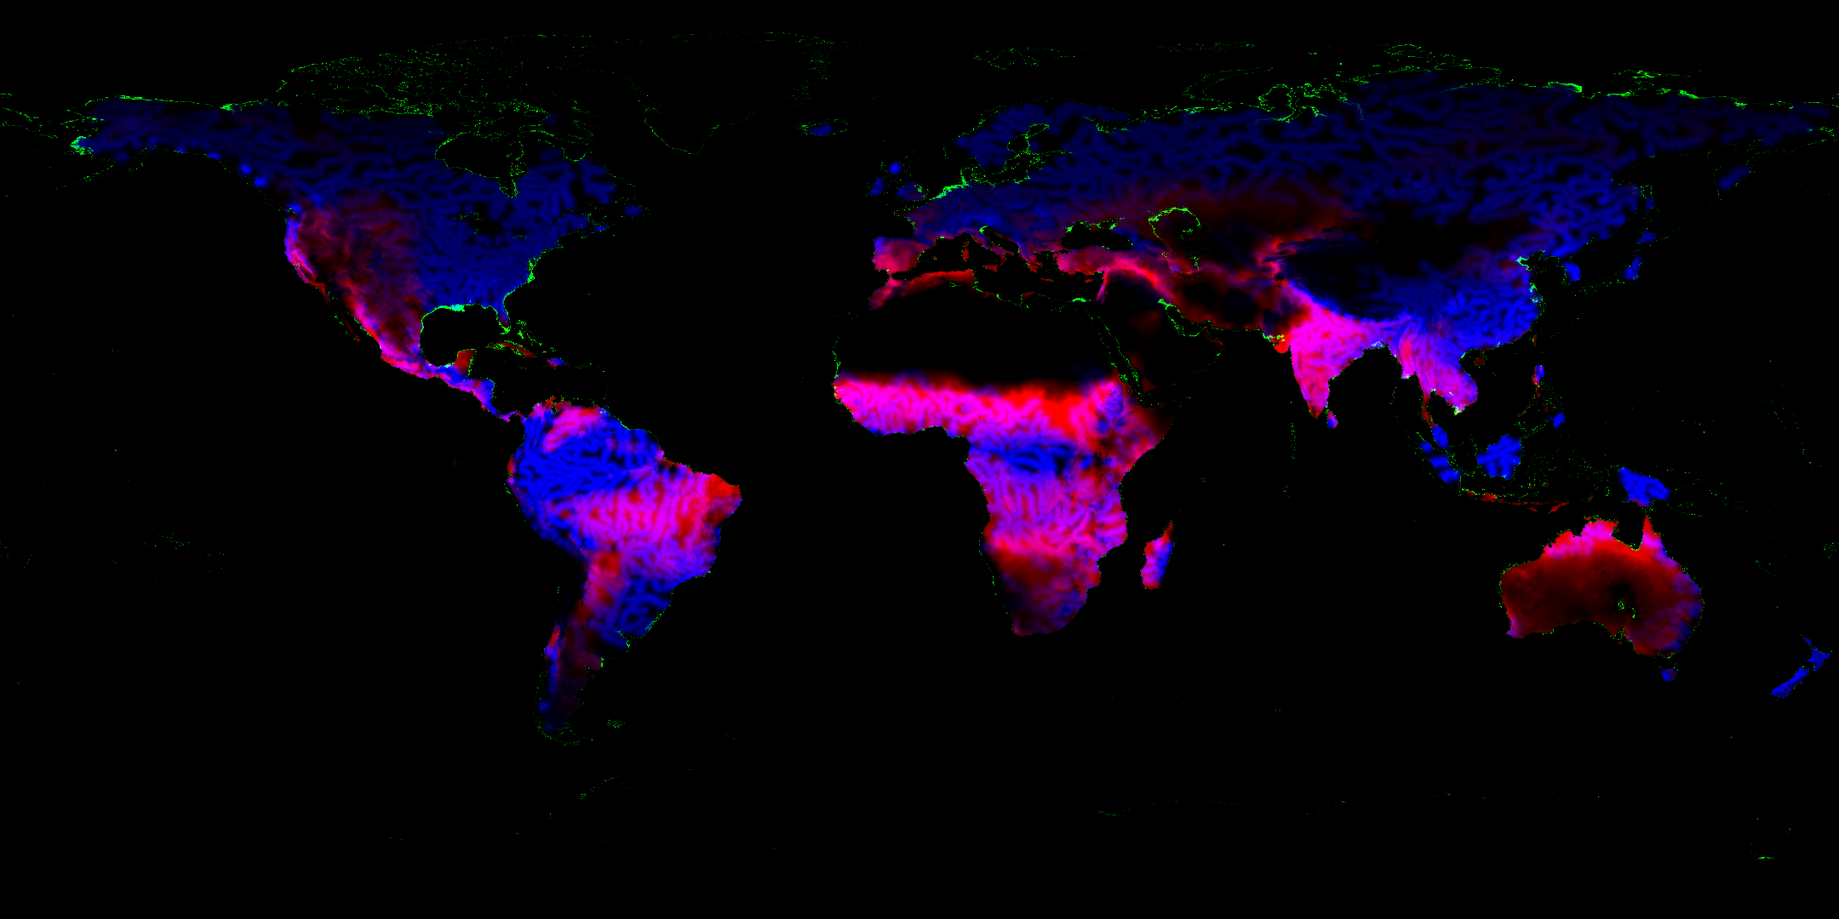
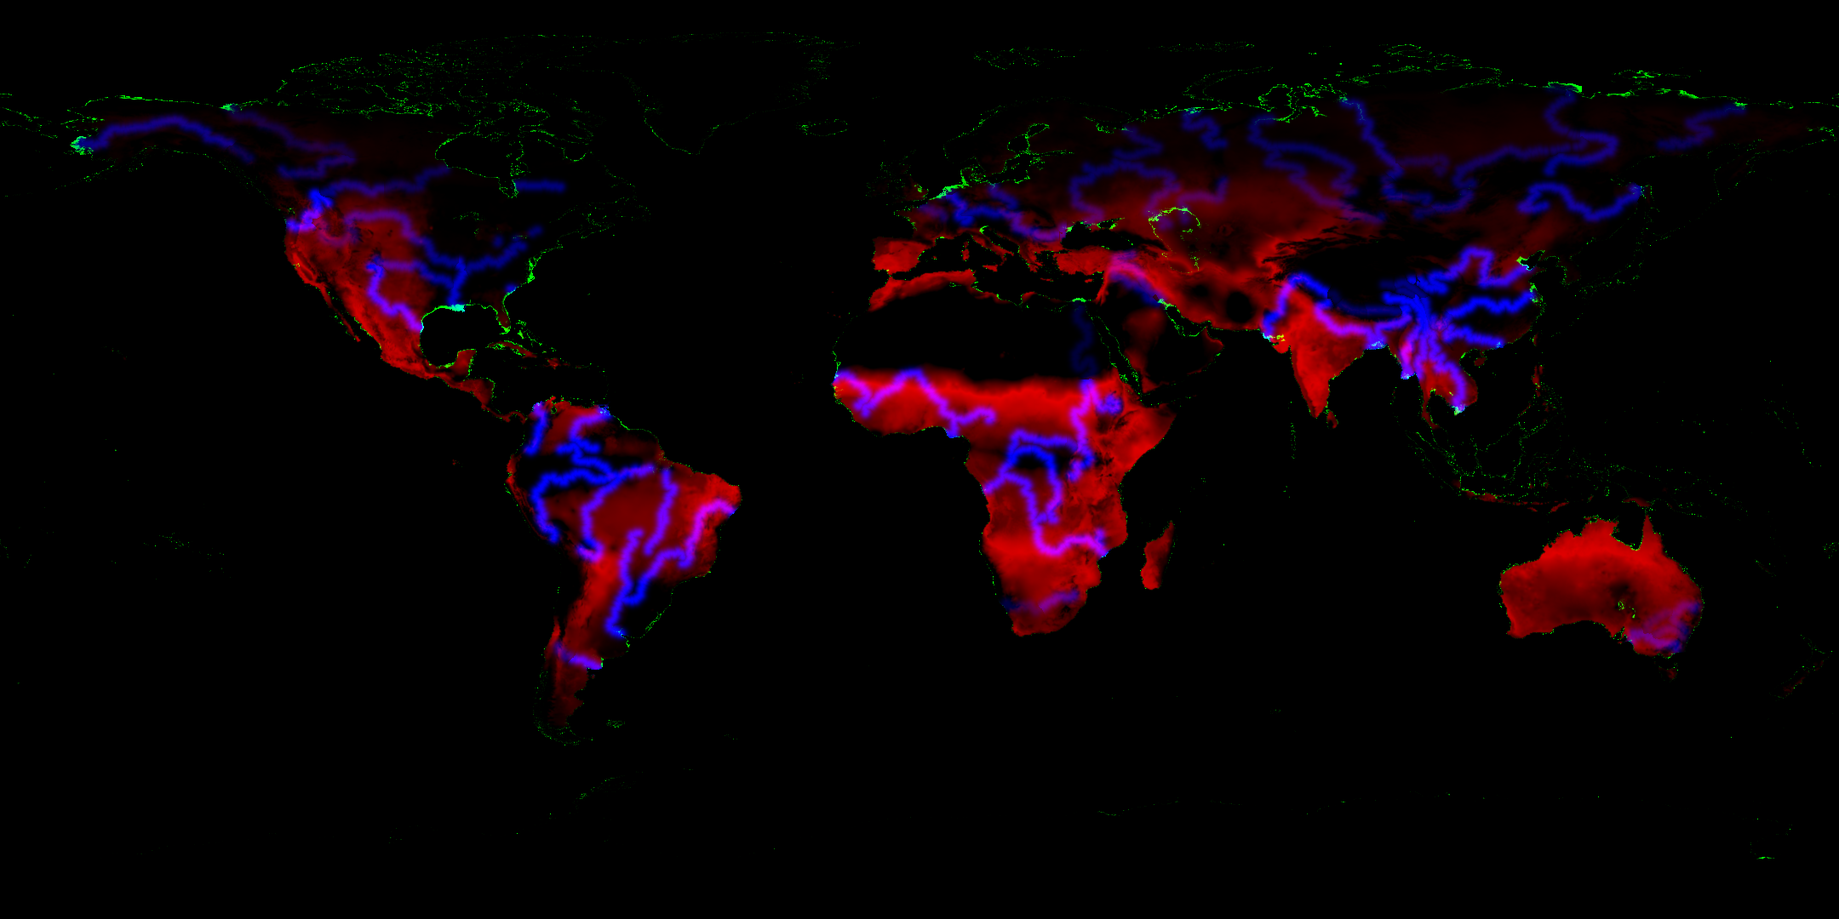
Verifier chaque calque contre la geographie reelle, remplacer le flux
Corrections issues du spot-check (30 points de controle par calque) :
- Feux : les moyennes mensuelles confondaient Londres et Canberra ; le
  danger integre desormais l'aridite annuelle de fond et moyenne les deux
  pires mois (Seville .80, Canberra .21, Londres .24, Sahara/Congo 0).
- Inondations : l'intensite etait la pluie LOCALE — le Nil sortait a zero
  au Caire. La crue porte desormais le max de pluie du bassin, calcule par
  fleuve NOMME tous troncons confondus (Nil .20 sur tout son cours).
- Submersion validee telle quelle : Dhaka ville .008 est correct (~8 m),
  le delta au sud est expose (Khulna .27, Calcutta .32).

« Resilience & flux » (six arcs dessines a la main, sans donnee) remplace
par « Instabilite du climat » : ecart |2050-2026| pondere comme le critere
stabilite du dossier, seuils cales sur les percentiles reels de la grille,
violet qui respire et s'intensifie avec la timeline. Note « calque
indicatif » sous les argiles dans le menu. Face nuit relevee (plancher
1.05). Conseil du dossier aligne sur l'echelle des rangees affichees.

diff --git a/index.html b/index.html
@@ -212,7 +212,8 @@
       <button class="calque" data-cle="secheresse" data-couleur="ambre"><span class="pastille"></span><span class="nom" data-t-calque></span><span class="code">R-04</span></button>
       <button class="calque" data-cle="mer"><span class="pastille"></span><span class="nom" data-t-calque></span><span class="code">R-05</span></button>
       <button class="calque" data-cle="fleuves"><span class="pastille"></span><span class="nom" data-t-calque></span><span class="code">R-06</span></button>
-      <button class="calque" data-cle="flux"><span class="pastille"></span><span class="nom" data-t-calque></span><span class="code">R-07</span></button>
+      <button class="calque" data-cle="stabilite" data-couleur="violet"><span class="pastille"></span><span class="nom" data-t-calque></span><span class="code">R-07</span></button>
+      <div class="note-calques" data-t="argilesIndicatif"></div>
     </nav>
   </div>
   <div class="menu-groupe">
@@ -338,15 +339,6 @@ function revelerChars(el, texte){
   gsap.fromTo(chars, { yPercent: 115 }, { yPercent: 0, duration: 1.2, stagger: 0.015, ease: EASE });
 }
 
-// Flux de résilience : zones agricoles → métropoles [de, vers]
-const FLUX = [
-  [[48.1,  1.7], [48.85,   2.35]],  // Beauce → Paris
-  [[41.9,-93.1], [41.88, -87.63]],  // Midwest → Chicago
-  [[-12.0,-47.0],[-23.55,-46.63]],  // Cerrado → São Paulo
-  [[49.0, 32.0], [52.52,  13.40]],  // Steppe ukrainienne → Berlin
-  [[-34.0,-61.0],[-34.60,-58.38]],  // Pampas → Buenos Aires
-  [[31.0, 74.0], [28.61,  77.21]],  // Pendjab → Delhi
-];
 
 
 
@@ -369,7 +361,7 @@ const TEXTES = {
     son: e => e ? 'Son · on' : 'Son · off',
     calque: { chaleur: 'Chaleur extrême', feux: 'Incendies de forêt',
       argile: 'Retrait-gonflement argiles', secheresse: 'Sécheresse',
-      mer: 'Submersion marine', fleuves: 'Inondations fluviales', flux: 'Résilience & flux' },
+      mer: 'Submersion marine', fleuves: 'Inondations fluviales', stabilite: 'Instabilité du climat' },
     critere: { thermique: 'Confort thermique', eau: 'Ressource en eau', feux: 'Risque incendie',
       mer: 'Submersion marine', fleuves: 'Inondation fluviale', stabilite: 'Stabilité du climat' },
     legendeIndice: '／100 · indice d’habitabilité',
@@ -379,6 +371,7 @@ const TEXTES = {
       moyen: `En ${an}, rester demande de s’adapter sur ${faible.toLowerCase()}.`,
       dur: `En ${an}, ${faible.toLowerCase()} pèse assez pour poser la question du départ.`,
     })[n] + (delta <= -8 ? ` L’indice perd ${-delta} points d’ici 2050.` : delta >= 8 ? ` L’indice gagne ${delta} points d’ici 2050.` : ''),
+    conseilSain: an => `En ${an}, aucun des six facteurs ne pèse vraiment ici.`,
     aujourdhui: 'En ce moment',
     ras: 'Aucun événement naturel majeur en cours dans un rayon de 800 km.',
     rasChargement: 'Interrogation du flux NASA EONET…',
@@ -412,7 +405,7 @@ const TEXTES = {
     son: e => e ? 'Sound · on' : 'Sound · off',
     calque: { chaleur: 'Extreme heat', feux: 'Wildfire',
       argile: 'Clay shrink-swell', secheresse: 'Drought',
-      mer: 'Coastal flooding', fleuves: 'River flooding', flux: 'Resilience & flows' },
+      mer: 'Coastal flooding', fleuves: 'River flooding', stabilite: 'Climate shift' },
     critere: { thermique: 'Thermal comfort', eau: 'Water resource', feux: 'Wildfire risk',
       mer: 'Coastal flooding', fleuves: 'River flooding', stabilite: 'Climate stability' },
     legendeIndice: '／100 · habitability index',
@@ -422,6 +415,7 @@ const TEXTES = {
       moyen: `In ${an}, staying means adapting on ${faible.toLowerCase()}.`,
       dur: `In ${an}, ${faible.toLowerCase()} weighs enough to raise the question of leaving.`,
     })[n] + (delta <= -8 ? ` The index loses ${-delta} points by 2050.` : delta >= 8 ? ` The index gains ${delta} points by 2050.` : ''),
+    conseilSain: an => `In ${an}, none of the six factors carries real weight here.`,
     aujourdhui: 'Right now',
     ras: 'No major natural event under way within 800 km.',
     rasChargement: 'Querying the NASA EONET feed…',
@@ -753,7 +747,7 @@ const uniformsGlobe = {
   uProgression:{ value: 0 },                          // timeline 2026→2050 → 0..1
   uSoleil:     { value: new THREE.Vector3(1, .35, .6).normalize() },
   uChaleur:    { value: 0 }, uArgile: { value: 0 },
-  uSecheresse: { value: 0 }, uMer:    { value: 0 },
+  uSecheresse: { value: 0 }, uMer:    { value: 0 }, uStabilite: { value: 0 },
   uA2026: { value: texA2026 }, uA2050: { value: texA2050 },
   uB2026: { value: texB2026 }, uB2050: { value: texB2050 },
   uC:     { value: texC },
@@ -772,7 +766,7 @@ const matGlobe = new THREE.ShaderMaterial({
     }`,
   fragmentShader: /* glsl */`
     uniform sampler2D uMap; uniform sampler2D uMasque;
-    uniform float uTemps, uProgression, uChaleur, uArgile, uSecheresse, uMer;
+    uniform float uTemps, uProgression, uChaleur, uArgile, uSecheresse, uMer, uStabilite;
     uniform vec3 uSoleil;
     uniform sampler2D uA2026, uA2050, uB2026, uB2050, uC;
     varying vec3 vN; varying vec3 vP; varying vec2 vUv; varying vec3 vPm;
@@ -805,7 +799,7 @@ const matGlobe = new THREE.ShaderMaterial({
       // doivent rester lisibles y compris sur la face nuit
       float gris = dot(tex, vec3(0.299, 0.587, 0.114));
       vec3 ocean   = vec3(0.026, 0.058, 0.132);
-      vec3 continent = mix(vec3(0.095, 0.130, 0.168), vec3(0.245, 0.272, 0.278), gris);
+      vec3 continent = mix(vec3(0.130, 0.168, 0.205), vec3(0.300, 0.325, 0.330), gris);
       vec3 base = mix(ocean, continent, terre);
 
       // éclairage très doux : le jour/nuit module, il ne masque jamais (pas de
@@ -813,15 +807,18 @@ const matGlobe = new THREE.ShaderMaterial({
       float lambert = max(dot(vN, uSoleil), 0.0);
       vec3 vue = normalize(cameraPosition - vPm);
       float fresnel = pow(1.0 - max(dot(vN, vue), 0.0), 3.0);
-      vec3 col = base * (0.94 + 0.30 * lambert) + vec3(0.09, 0.25, 0.66) * fresnel * 0.55;
+      // plancher haut : la face nuit reste lisible sous n'importe quelle rotation
+      vec3 col = base * (1.05 + 0.24 * lambert) + vec3(0.09, 0.25, 0.66) * fresnel * 0.50;
 
       float P = uProgression;
 
       /* Grilles de risques réelles (WorldClim/CMIP6 SSP3-7.0, ETOPO 2022,
          Natural Earth). r = chaleur, g = sécheresse, b = feux, a = submersion ;
          st = fleuves 2026 / fleuves 2050 / argiles / masque terre ETOPO. */
-      vec3 ga = mix(texture2D(uA2026, vUv).rgb, texture2D(uA2050, vUv).rgb, P);  // chaud / gel / sec
-      vec3 gb = mix(texture2D(uB2026, vUv).rgb, texture2D(uB2050, vUv).rgb, P);  // feu / mer / fleuves
+      vec3 a26 = texture2D(uA2026, vUv).rgb, a50 = texture2D(uA2050, vUv).rgb;
+      vec3 b26 = texture2D(uB2026, vUv).rgb, b50 = texture2D(uB2050, vUv).rgb;
+      vec3 ga = mix(a26, a50, P);                    // chaud / gel / sec
+      vec3 gb = mix(b26, b50, P);                    // feu / mer / fleuves
       vec3 gc = texture2D(uC, vUv).rgb;                                          // argiles / terre
       float submersion = gb.g;
       terre = max(terre, step(0.5, gc.g));
@@ -866,6 +863,20 @@ const matGlobe = new THREE.ShaderMaterial({
         vec3 neon = vec3(0.16, 0.48, 1.0);
         col = mix(col, neon * houle, eau * uMer * 0.70);
         col += neon * bord * terre * uMer * 0.85;             // liseré du trait de côte submersible
+      }
+
+      // R-07 INSTABILITÉ : où le climat de 2050 diffère le plus de celui de
+      // 2026, toutes grilles confondues — mêmes pondérations que le critère
+      // « stabilité » du dossier. Lueur violette qui respire lentement.
+      if (uStabilite > 0.001){
+        float inst = (abs(a50.r - a26.r) * 1.0 + abs(a50.b - a26.b) * 0.8
+                    + abs(b50.r - b26.r) * 0.6 + abs(b50.g - b26.g) * 1.2) / 3.6;
+        // dynamique réelle de l'écart : médiane ~0.001, p90 ~0.024, p99 ~0.056.
+        // Le seuil suit ces percentiles, pas une échelle 0-1 imaginaire.
+        float m = smoothstep(0.006, 0.055, inst) * terre;
+        float souffle = 0.72 + 0.28 * sin(uTemps * 1.1 + inst * 8.0);
+        vec3 violet = vec3(0.565, 0.365, 1.0);
+        col = mix(col, violet * souffle, m * uStabilite * (0.45 + 0.40 * P));
       }
 
       gl_FragColor = vec4(col, 1.0);
@@ -1038,68 +1049,6 @@ fetch('./data/rivers.json').then(r => r.json()).then(fleuves => {
 groupeFleuves.visible = false;
 scene.add(groupeFleuves);
 
-/* =====================================================================
-   7. R-07 FLUX — arcs de Bézier 3D + particules voyageant GPU-side.
-      Dépendance logistique des métropoles aux zones agricoles.
-   ===================================================================== */
-const courbes = FLUX.map(([a, b]) => {
-  const va = latLonVersVec3(a[0], a[1]), vb = latLonVersVec3(b[0], b[1]);
-  const milieu = va.clone().add(vb).multiplyScalar(0.5).normalize()
-    .multiplyScalar(1 + va.distanceTo(vb) * 0.35);          // hauteur d'arc
-  return new THREE.QuadraticBezierCurve3(va, milieu, vb);
-});
-const groupeFlux = new THREE.Group();
-const fluxUniforms = { uTemps: { value: 0 }, uIntensite: { value: 0 }, uPixelRatio: { value: moteur.getPixelRatio() } };
-{
-  // arcs : tubes très fins, teinte cyan discrète
-  for (const c of courbes){
-    const geo = new THREE.TubeGeometry(c, 48, 0.0016, 4, false);
-    groupeFlux.add(new THREE.Mesh(geo, new THREE.MeshBasicMaterial({
-      color: 0x39e6d4, transparent: true, opacity: 0.14, blending: THREE.AdditiveBlending, depthWrite: false })));
-  }
-  // particules : 48 par arc, position calculée dans le vertex shader (3 points de contrôle)
-  const PAR_ARC = 48, total = courbes.length * PAR_ARC;
-  const p0 = new Float32Array(total * 3), p1 = new Float32Array(total * 3), p2 = new Float32Array(total * 3);
-  const decalage = new Float32Array(total);
-  let k = 0;
-  for (const c of courbes){
-    for (let i = 0; i < PAR_ARC; i++, k++){
-      p0.set([c.v0.x, c.v0.y, c.v0.z], k * 3);
-      p1.set([c.v1.x, c.v1.y, c.v1.z], k * 3);
-      p2.set([c.v2.x, c.v2.y, c.v2.z], k * 3);
-      decalage[k] = i / PAR_ARC;
-    }
-  }
-  const geo = new THREE.BufferGeometry();
-  geo.setAttribute('position', new THREE.BufferAttribute(p0, 3)); // requis, remplacé au rendu
-  geo.setAttribute('aP1', new THREE.BufferAttribute(p1, 3));
-  geo.setAttribute('aP2', new THREE.BufferAttribute(p2, 3));
-  geo.setAttribute('aDecalage', new THREE.BufferAttribute(decalage, 1));
-  groupeFlux.add(new THREE.Points(geo, new THREE.ShaderMaterial({
-    uniforms: fluxUniforms, transparent: true, depthWrite: false, blending: THREE.AdditiveBlending,
-    vertexShader: /* glsl */`
-      attribute vec3 aP1; attribute vec3 aP2; attribute float aDecalage;
-      uniform float uTemps, uIntensite, uPixelRatio;
-      varying float vVie;
-      void main(){
-        float t = fract(uTemps * 0.14 + aDecalage);
-        vec3 ab = mix(position, aP1, t), bc = mix(aP1, aP2, t);
-        vec3 pos = mix(ab, bc, t);                            // Bézier quadratique évalué GPU
-        vVie = sin(t * 3.14159);                              // naît et meurt aux extrémités
-        vec4 mv = modelViewMatrix * vec4(pos, 1.0);
-        gl_PointSize = (1.6 + 2.4 * vVie) * uIntensite * uPixelRatio * (2.6 / -mv.z);
-        gl_Position = projectionMatrix * mv;
-      }`,
-    fragmentShader: /* glsl */`
-      uniform float uIntensite; varying float vVie;
-      void main(){
-        float d = length(gl_PointCoord - 0.5);
-        gl_FragColor = vec4(vec3(0.35, 0.95, 0.9), smoothstep(0.5, 0.05, d) * vVie * uIntensite);
-      }`,
-  })));
-}
-groupeFlux.visible = false;
-scene.add(groupeFlux);
 
 /* =====================================================================
    8. POST-TRAITEMENT — UN SEUL PASSAGE : LUT colorimétrique 512 px
@@ -1250,7 +1199,7 @@ const CALQUES = {
   secheresse: { uniforme: uniformsGlobe.uSecheresse, son: 'layer_on' },
   mer:        { uniforme: uniformsGlobe.uMer,        son: 'layer_on' },
   fleuves:    { uniforme: fleuvesUniforms.uCrue,     son: 'layer_on', objet: groupeFleuves },
-  flux:       { uniforme: fluxUniforms.uIntensite,   son: 'layer_on', objet: groupeFlux },
+  stabilite:  { uniforme: uniformsGlobe.uStabilite,  son: 'layer_on' },
 };
 const etat = { progression: 0, annee: 2026, feuxCible: 0, crise: false };
 
@@ -1577,10 +1526,13 @@ function majDossier(){
   v.className = 'verdict ' + niveau;
   document.getElementById('dossier-verdict-txt').textContent = t.verdict[niveau];
 
-  // le critère qui coûte le plus de points, pondération comprise
-  const pire = criteres.slice().sort((a, b) => b.penalite * b.poids - a.penalite * a.poids)[0];
+  // le point faible est jugé sur la MÊME échelle que les rangées affichées
+  // (le rang parmi les villes), sinon la phrase contredit les notes
+  const pire = criteres.slice().sort((a, b) =>
+    a.note - b.note || b.poids - a.poids)[0];
   document.getElementById('dossier-conseil').textContent =
-    t.conseil(niveau, t.critere[pire.cle], an, indice2050 - indice);
+    pire.note >= 85 ? t.conseilSain(an)
+      : t.conseil(niveau, t.critere[pire.cle], an, indice2050 - indice);
 
   majEvenements(l);
 
@@ -1919,7 +1871,6 @@ function boucle(){
   uniformsGlobe.uTemps.value = t;
   feuxUniforms.uTemps.value = t;
   fleuvesUniforms.uTemps.value = t;
-  fluxUniforms.uTemps.value = t;
 
   // densité des feux pilotée par la projection (multiplication réelle via drawRange)
   const cibleFeux = Math.floor(FEUX_MAX * Math.pow(0.05 + 0.95 * etat.progression, 1.6) * feuxUniforms.uIntensite.value);

diff --git a/terra-menus.css b/terra-menus.css
@@ -657,3 +657,11 @@ body.pret #util #calques { transform: none; }
 #menu-reglages .bouton-ico { width: 100%; text-align: left; padding: 11px 0;
   border-top: 1px solid var(--filet); }
 #menu-reglages .bouton-ico:first-child { border-top: none; }
+
+/* Pastille violette du calque instabilité + note de bas de menu */
+.calque[data-couleur="violet"].actif .pastille { background: #906BFF; }
+.calque[data-couleur="violet"] .pastille::after { background: #906BFF; }
+.note-calques { width: 100%; margin-top: 4px; padding: 10px 0 6px;
+  border-top: 1px solid var(--filet);
+  font-family: ui-monospace, "SF Mono", Menlo, monospace; font-size: 9px;
+  letter-spacing: 0.14em; text-transform: uppercase; color: rgba(255, 253, 226, 0.35); }

diff --git a/tools/pipeline.py b/tools/pipeline.py
@@ -151,16 +151,28 @@ def canal_aridite(tmax_an, prec_an):
     return p / np.maximum(t + 10.0, 1.0)
 
 
-def canal_feux(tmax_an, prec_an, terre):
+def canal_feux(tmax_an, prec_an, terre, deficit):
     """Danger météo de feu : mois chauds et secs, pondérés par la végétation
-    disponible (un désert sans combustible ne brûle pas)."""
+    disponible (un désert sans combustible ne brûle pas).
+
+    Calibré sur les régimes connus : les moyennes mensuelles lissent les
+    vagues de chaleur, donc les seuils sont bas (75 mm, 16 °C) et le danger
+    moyenne les DEUX pires mois — sinon la Méditerranée et le sud-est
+    australien, régimes épisodiques, sortent quasi éteints.
+    """
     pm = np.nan_to_num(prec_an)
     tm = np.nan_to_num(tmax_an)
-    secheresse_mois = np.clip(1.0 - pm / 60.0, 0, 1) * np.clip((tm - 18.0) / 17.0, 0, 1)
-    danger = secheresse_mois.max(axis=-1)
+    secheresse_mois = np.clip(1.0 - pm / 75.0, 0, 1) * np.clip((tm - 16.0) / 15.0, 0, 1)
+    tri = np.sort(secheresse_mois, axis=-1)
+    danger = tri[..., -2:].mean(axis=-1)
     p_annuel = pm.sum(axis=-1)
-    combustible = np.clip((p_annuel - 120.0) / 500.0, 0, 1)     # ni désert nu, ni tourbière
-    return danger * combustible * terre
+    combustible = np.clip((p_annuel - 100.0) / 420.0, 0, 1)     # ni désert nu, ni tourbière
+    # l'aridité annuelle sépare les régimes que les moyennes mensuelles
+    # confondent : un été anglais et un été de Canberra ont des mois moyens
+    # voisins, mais pas le même déficit hydrique de fond
+    aride = np.nan_to_num(deficit)
+    brut = danger * combustible * (0.35 + 0.65 * aride)
+    return np.clip(brut, 0, 1) ** 0.7 * terre
 
 
 def charger_elevation(cotes):
@@ -193,12 +205,41 @@ def charger_elevation(cotes):
 
 
 def canal_fleuves(prec_an, terre):
-    """Proximité d'un grand fleuve x intensité du mois le plus humide."""
-    masque = rasteriser_fleuves()
-    dist = distance_transform_edt(~masque)                   # en pixels de 10'
+    """Proximité d'un grand fleuve x intensité de crue de SON bassin.
+
+    La crue est portée par la pluie du bassin, pas par la pluie locale : le
+    Nil inonde Le Caire avec l'eau des hauts plateaux éthiopiens alors qu'il
+    ne pleut pas au Caire. Chaque fleuve reçoit donc le maximum de pluie
+    mensuelle rencontré LE LONG DE SON TRACÉ, et chaque texel proche d'un
+    fleuve hérite de la valeur du tronçon le plus proche.
+    """
+    intensite_locale = np.clip(np.nan_to_num(prec_an).max(axis=-1) / 260.0, 0, 1)
+    fleuves = exporter_fleuves()
+    en_cellules = []
+    for f in fleuves:
+        cellules = []
+        for la, lo in f['pts']:
+            x = min(W - 1, max(0, int(round((lo + 180) / 360 * W))))
+            y = min(H - 1, max(0, int(round((90 - la) / 180 * H))))
+            cellules.append((y, x))
+        en_cellules.append(cellules)
+    # le bassin se calcule par fleuve NOMMÉ, tous tronçons confondus : le
+    # tronçon égyptien du Nil est désertique, sa crue vient des tronçons amont
+    bassin_par_nom = {}
+    for f, cellules in zip(fleuves, en_cellules):
+        nom = f['name'] or f['nom'] or id(f)
+        m = max(intensite_locale[y, x] for y, x in cellules)
+        bassin_par_nom[nom] = max(bassin_par_nom.get(nom, 0.0), m)
+    valeur_fleuve = np.zeros((H, W), np.float32)
+    masque = np.zeros((H, W), bool)
+    for f, cellules in zip(fleuves, en_cellules):
+        bassin = bassin_par_nom[f['name'] or f['nom'] or id(f)]
+        for y, x in cellules:
+            masque[y, x] = True
+            valeur_fleuve[y, x] = max(valeur_fleuve[y, x], bassin)
+    dist, (iy, ix) = distance_transform_edt(~masque, return_indices=True)
     proximite = np.exp(-(dist / 6.0) ** 2)
-    intensite = np.clip(np.nan_to_num(prec_an).max(axis=-1) / 260.0, 0, 1)
-    return proximite * intensite * terre
+    return proximite * valeur_fleuve[iy, ix] * terre
 
 
 def rasteriser_fleuves():
@@ -484,11 +525,12 @@ def main():
         t = interp_annee(tmax, an)
         n = interp_annee(tmin, an)
         p = interp_annee(prec, an)
+        deficit = norm(-np.nan_to_num(canal_aridite(t, p), nan=40.0), -40, -5) * terre
         couches[an] = dict(
             chaud=norm(np.nan_to_num(canal_chaleur_humide(t, vapr, tmax['hist'])), 0, 300) * terre,
             froid=norm(np.nan_to_num(canal_froid(n)), 0, 200) * terre,
-            sec=norm(-np.nan_to_num(canal_aridite(t, p), nan=40.0), -40, -5) * terre,
-            feux=canal_feux(t, p, terre),
+            sec=deficit,
+            feux=canal_feux(t, p, terre, deficit),
             mer=frac_sous[cotes[an]] * terre,
             fleuves=canal_fleuves(p, terre),
         )

diff --git a/.agent/ACCEPTANCE.md b/.agent/ACCEPTANCE.md
@@ -1,0 +1,11 @@
+[x] Chaleur : Sahel/Inde/Golfe/Amazonie/Asie SE allumés ; Oslo/Iakoutsk/Quito/Reykjavik ~0 (spot-check + capture Le Caire 2050 : hauts plateaux éthiopiens épargnés)
+[x] Feux : Séville .80, Thessalie .67, Californie .70, Canberra .21, Cerrado .49 ; Sahara/Groenland/Congo 0 (capture : ceinture sahélienne + pourtour méditerranéen, déserts vides, rien en mer)
+[x] Sécheresse : Sahara/Riyad/Atacama 1.0, Alice .89 ; Singapour/Bergen 0 (capture : Éthiopie épargnée)
+[x] Submersion : delta du Bengale (Khulna .27, Sundarbans .18, Calcutta .32), Amsterdam 1.0, N-Orléans .97 ; Denver/Madrid 0. Dhaka ville .008 = correct (~8 m ETOPO)
+[x] Inondations : Nil .20 sur tout son cours (max de bassin PAR FLEUVE NOMMÉ), Rhin .66, Mississippi .71, Gange 1.0 ; Tibet/Alice/Madrid ~0 (capture : Nil visible dans le désert)
+[x] Argiles : bassins désignés, note « calque indicatif » affichée en pied du menu Conditions de vie
+[x] Flux remplacé par « Instabilité du climat / Climate shift » : |2050−2026| pondéré comme le critère stabilité du dossier, seuils calés sur les percentiles réels (p50 .001 / p99 .056), violet qui respire, s'intensifie avec la timeline (capture : Sahel/Méditerranée/Balkans allumés, Sahara déjà maximal éteint)
+[x] Aucun artefact en mer (captures des 5 calques)
+[x] Zéro erreur console sur le build courant (listener window.error : seul l'artefact setPointerCapture du pointeur synthétique de test)
+[x] Face nuit lisible : plancher 1.05 + continents 0.13-0.30 (capture Auckland/NZ)
+[x] Conseil aligné sur l'échelle affichée (Auckland : mer note 20 → nommée ; sinon conseilSain)

diff --git a/.agent/EVIDENCE.md b/.agent/EVIDENCE.md
@@ -1,0 +1,10 @@
+Spot-checks grilles (python, data/grille_*): voir sorties dans l'historique de
+session du 2026-08-21. Extraits clés :
+  chaleur  Niamey 1.00 Delhi .68 Manaus 1.00 | Oslo .00 Iakoutsk .02 Quito .00
+  feux     Séville .80 Thessalie .67 Californie .70 Canberra .21 | Sahara .00 Congo .00
+  sec      Sahara 1.00 Atacama 1.00 | Singapour .00 Bergen .00
+  mer      Khulna .27 Amsterdam 1.00 N-Orléans .97 | Denver .00 Madrid .00
+  fleuves  Nil .20 Rhin .66 Mississippi .71 Gange 1.00 | Tibet .00 Alice .00
+Distribution instabilité (terre) : p50 .0013 p90 .024 p99 .056 max .353
+Console build courant : {"buildNeuf":true,"erreurs":["setPointerCapture… (pointeur synthétique)"]}
+Captures : chaleur/feux/sécheresse/fleuves/instabilité vue Le Caire 2050, NZ face nuit.

diff --git a/.agent/GOAL.md b/.agent/GOAL.md
@@ -1,0 +1,13 @@
+GOAL: Chaque calque du globe (chaleur, feux, argiles, sécheresse, submersion,
+inondations) est vérifié contre la géographie climatique réelle et corrigé si
+faux. Le calque « Résilience & flux » (arcs dessinés à la main, sans donnée,
+incompréhensible pour l'utilisateur) est remplacé par un calque signifiant et
+fondé sur les grilles réelles.
+
+SURFACE:
+- 7 rangées du menu Conditions de vie, chacune activable, chacune juste sur la carte
+- Le nouveau calque a un nom clair FR/EN et une lecture évidente
+- Timeline 2026→2050 fait évoluer chaque calque de façon plausible
+
+WRITABLE SCOPE: index.html, terra-menus.css, tools/pipeline.py, data/
+DO NOT TOUCH: assets/, fonts/, package.json
